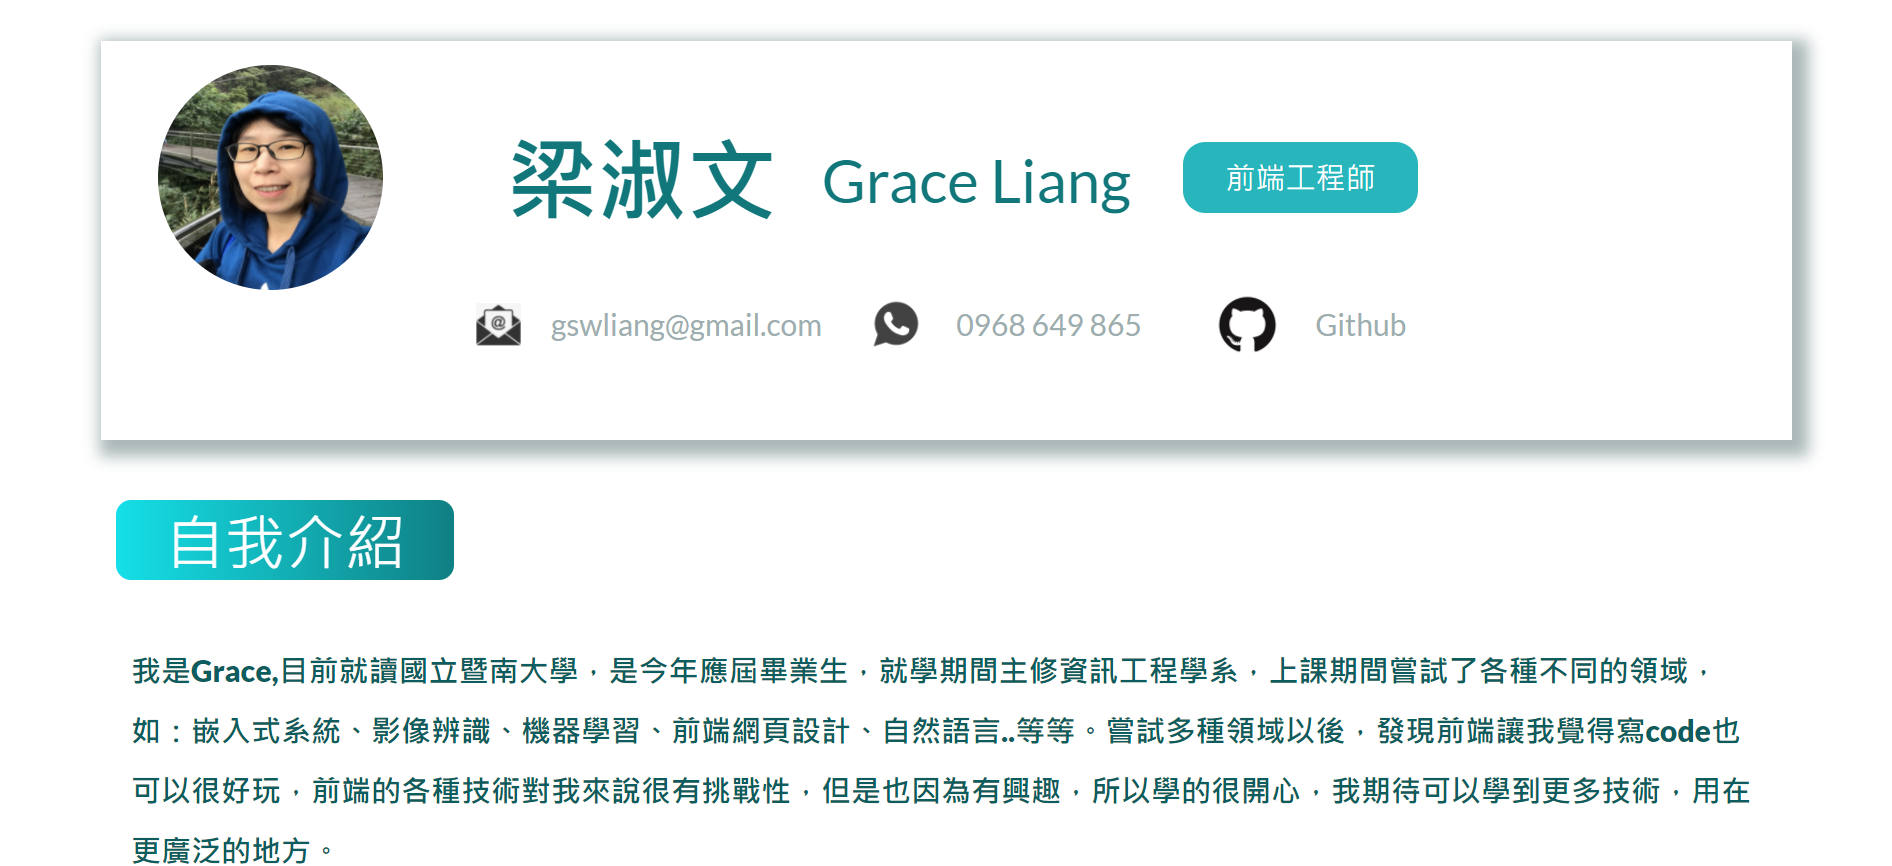
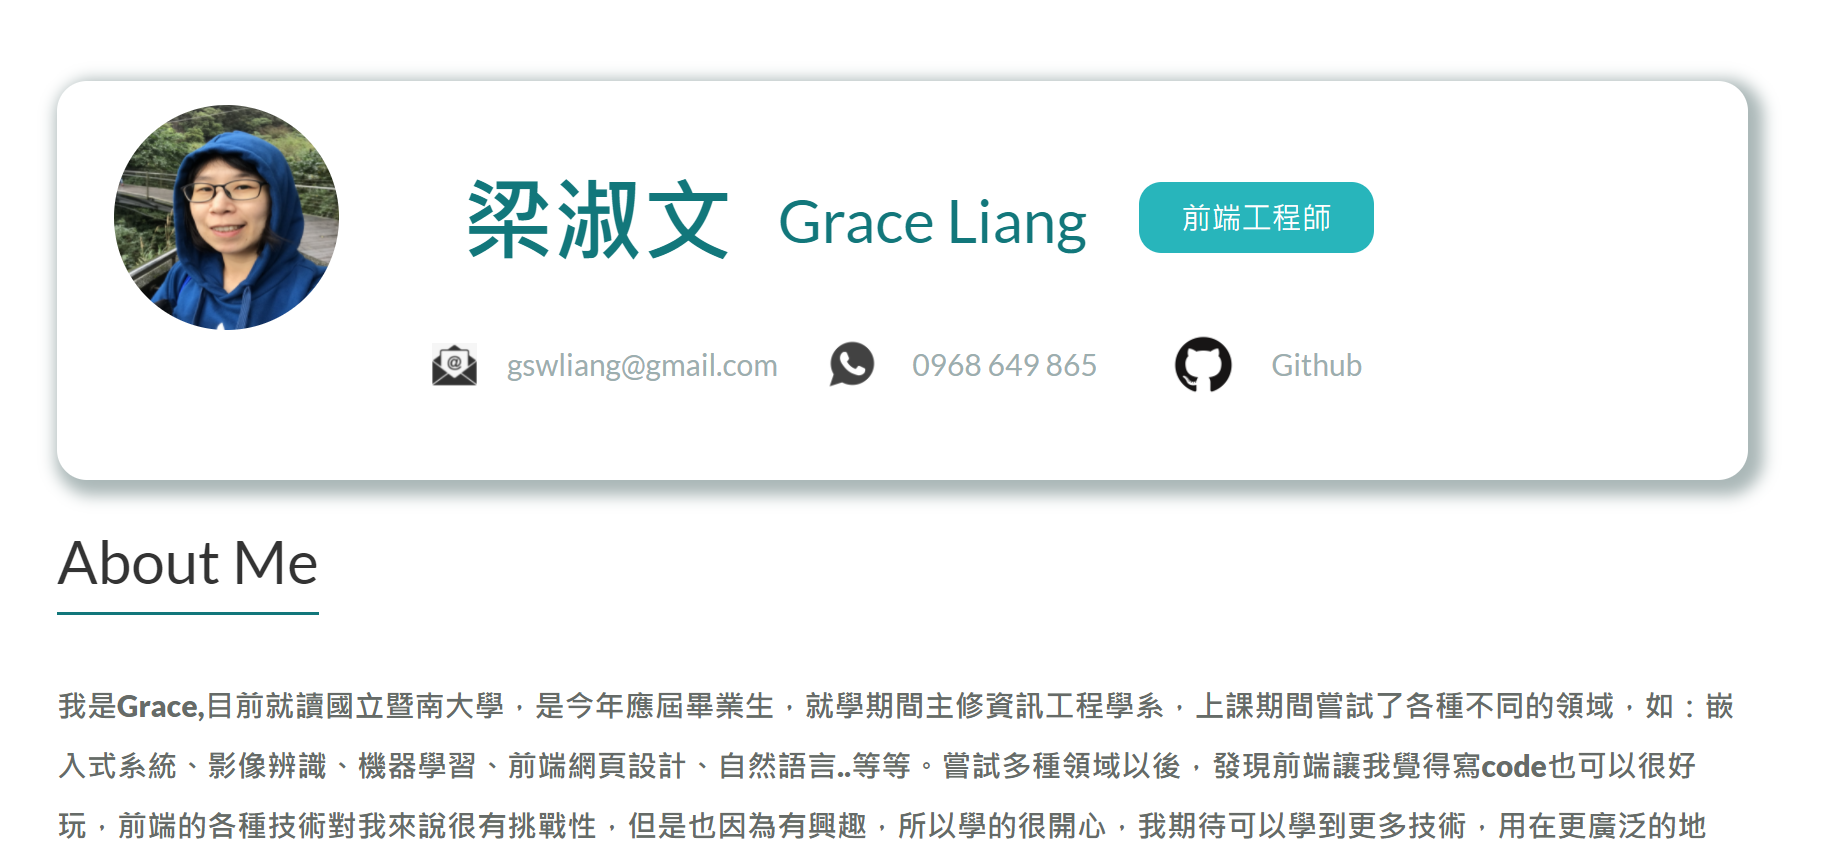
edit personal detail css style

diff --git a/src/Components/personalDetails.js b/src/Components/personalDetails.js
@@ -13,38 +13,48 @@ const PersonalDetails = () => {
 
   const renderList = () => {
     return (
-      <div className="personal">
-        <img src={Grace} alt="Grace" className=" photo" />
-        <div className="personal__item">
-          <div className="personal__item--cName">{cName}</div>
-          <div className="personal__item--eName">{eName}</div>
-          <div className="personal__item--jobTitle">{jobTitle}</div>
-        </div>
-        <div className="contact">
-          <div className="contact__email">
-            <img src={gmail} alt="gmail icon" className="contact--iconGmail" />
-            <a href={`mailto:${email}`} className="contact__email">
-              {email}
-            </a>
+      <div className="personal__container">
+        <img src={Grace} alt="Grace" className="personal__photo" />
+        <div className="personal__detail">
+          <div className="personal__item">
+            <div className="personal__item--cName">{cName}</div>
+            <div className="personal__item--eName">{eName}</div>
+            <div className="personal__item--jobTitle">{jobTitle}</div>
           </div>
-          <div className="contact__phone">
-            <img src={phone} alt="phone icon" className="contact--iconPhone" />
-            <p>{contact}</p>
-          </div>
-          <div className="contact__github">
-            <img
-              src={github}
-              alt="github-mark"
-              className="social__github--img"
-            />
-            <a
-              href="https://www.github.com/gswliang"
-              className="social__github"
-              target="_blank"
-              rel="noreferrer"
-            >
-              Github
-            </a>
+          <div className="contact">
+            <div className="contact__email">
+              <img
+                src={gmail}
+                alt="gmail icon"
+                className="contact--iconGmail"
+              />
+              <a href={`mailto:${email}`} className="contact__email">
+                {email}
+              </a>
+            </div>
+            <div className="contact__phone">
+              <img
+                src={phone}
+                alt="phone icon"
+                className="contact--iconPhone"
+              />
+              <p>{contact}</p>
+            </div>
+            <div className="contact__github">
+              <img
+                src={github}
+                alt="github-mark"
+                className="social__github--img"
+              />
+              <a
+                href="https://www.github.com/gswliang"
+                className="social__github"
+                target="_blank"
+                rel="noreferrer"
+              >
+                Github
+              </a>
+            </div>
           </div>
         </div>
       </div>

diff --git a/src/CSS/PersonalDetails.css b/src/CSS/PersonalDetails.css
@@ -1,19 +1,29 @@
-.personal {
+.personal__container {
   font-size: 2rem;
   height: 46vh;
   display: flex;
   align-items: center;
-  flex-wrap: wrap;
-  position: relative;
   box-shadow: 0.5rem 0.5rem 1rem 0.6rem #aab7b7;
   border-radius: 2rem;
 }
 
+.personal__detail {
+  flex: 1 0 80%;
+  display: flex;
+  flex-direction: column;
+  align-items: center;
+  justify-content: center;
+}
+
+.personal__photo {
+  max-height: 20rem;
+  border-radius: 50%;
+  flex: 1 0 15%;
+  margin-left: 1.5rem;
+}
 .personal__item {
   box-sizing: border-box;
-  padding: 3rem;
   width: 80%;
-  height: 25vh;
   text-align: center;
   display: flex;
   align-items: center;
@@ -21,7 +31,6 @@
 }
 
 .personal__item--cName {
-  height: 9vh;
   font-size: 6rem;
   font-weight: 700;
   padding: 1.5rem;
@@ -31,7 +40,6 @@
 }
 
 .personal__item--eName {
-  height: 9vh;
   font-size: 4rem;
   font-weight: 500;
   padding: 1.5rem;
@@ -42,44 +50,31 @@
 
 .personal__item--jobTitle {
   margin-left: 2rem;
-  height: 3vh;
   width: 15%;
   background-color: #28b5bb;
   color: #fff;
   border-radius: 1.5rem;
-  padding: 1.5rem;
+  padding: 1rem;
   display: flex;
   align-items: center;
   justify-content: center;
 }
 
-.photo {
-  width: 15rem;
-  height: 15rem;
-  border-radius: 50%;
-  display: inline-block;
-  margin: auto;
-}
-
 .contact {
-  flex-basis: 60%;
-  height: 9vh;
   display: flex;
   align-items: center;
   justify-content: flex-start;
-  margin-left: 25rem;
-  position: relative;
-  bottom: 3.5rem;
+  width: 80%;
 }
 
 .contact__email {
   flex-basis: 30%;
-  height: 9vh;
   display: flex;
   align-items: center;
   justify-content: center;
   text-decoration: none;
   color: #9caeaf;
+  padding: 1.5rem;
 }
 
 .contact--iconGmail {
@@ -94,7 +89,6 @@
 
 .contact__phone {
   flex-basis: 30%;
-  height: 9vh;
   display: flex;
   align-items: center;
   justify-content: center;
@@ -104,7 +98,6 @@
 
 .contact__github {
   flex-basis: 30%;
-  height: 9vh;
   display: flex;
   align-items: center;
   justify-content: center;

diff --git a/public/index.html b/public/index.html
@@ -10,7 +10,8 @@
     <meta name="theme-color" content="#000000" />
     <meta
       name="description"
-      content="Web site created using create-react-app"
+      content="Welcome!
+This is Grace's Resume, done by react with css."
     />
     <link rel="apple-touch-icon" href="%PUBLIC_URL%/logo192.png" />
     <!--

diff --git a/README.md b/README.md
@@ -1,2 +1,2 @@
 Welcome!
-This is Grace's Curriculum Vitae, done by react with css.
+This is Grace's Resume, done by react with css.
